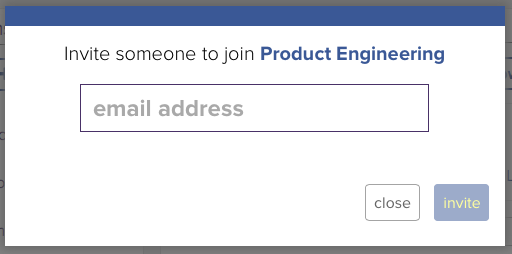
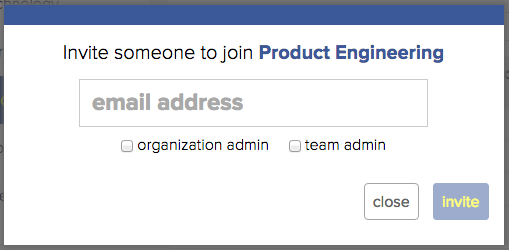
updated invite member dialog

diff --git a/_posts/2015-05-17-organization.md b/_posts/2015-05-17-organization.md
@@ -105,7 +105,7 @@ Every organization has a special team called *Organization Name*(all) that every
 
 There are a several ways that you can invite and add team members to your organization. 
 
-1. **Invite by Email** - team members can be invited directly via email by *clicking* on the **+Invite Member** button. <div class="full zoomable"><img src="/images/organizations/team_members/invite_member.png"></div> *typing* in their email address and *clicking* **invite**. <div class="full zoomable"><img src="/images/organizations/team_members/invite_member_dialog.png"></div> This will send them an invitation email along with instructions to join backstitch and the team you've invited them to.
+1. **Invite by Email** - team members can be invited directly via email by *clicking* on the **+Invite Member** button <div class="full zoomable"><img src="/images/organizations/team_members/invite_member.png"></div> *typing* in their email address and *clicking* **invite**.  <div class="full zoomable"><img src="/images/organizations/team_members/invite_member_dialog.png"></div>  This will send them an invitation email along with instructions to join backstitch and the team you've invited them to.  From this screen you can also assign the user as an admin before they join the team.
 
 1. **Allowed Domains** - you can automatically give access to your organization to anyone that posesses a valid email address at specified domain.  To add an allowed domain *click* the **Allowed Domains** button. <div class="full zoomable"><img src="/images/organizations/team_members/allowed_domains.png"></div> and **type** each allowed domain into the text box and *click* **add**. <div class="full zoomable"><img src="/images/organizations/team_members/allowed_domains_dialog.png"></div>  Before being added to your organization the team member will be sent an email to verify that they do in fact own that email address.
 
